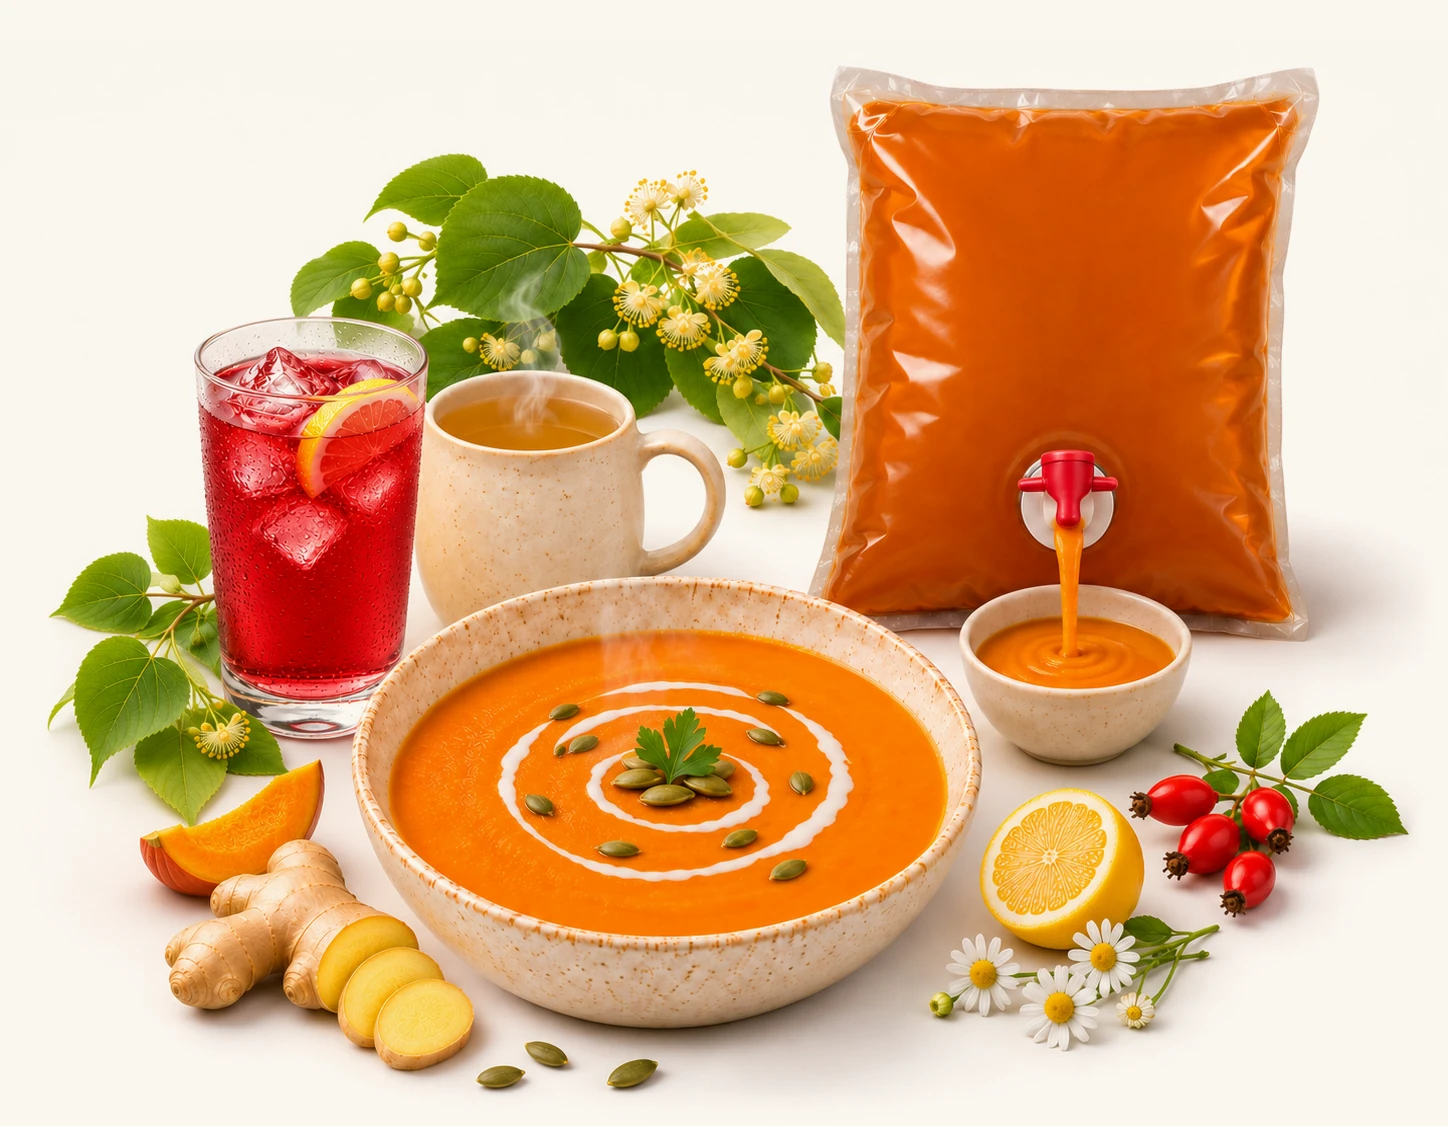
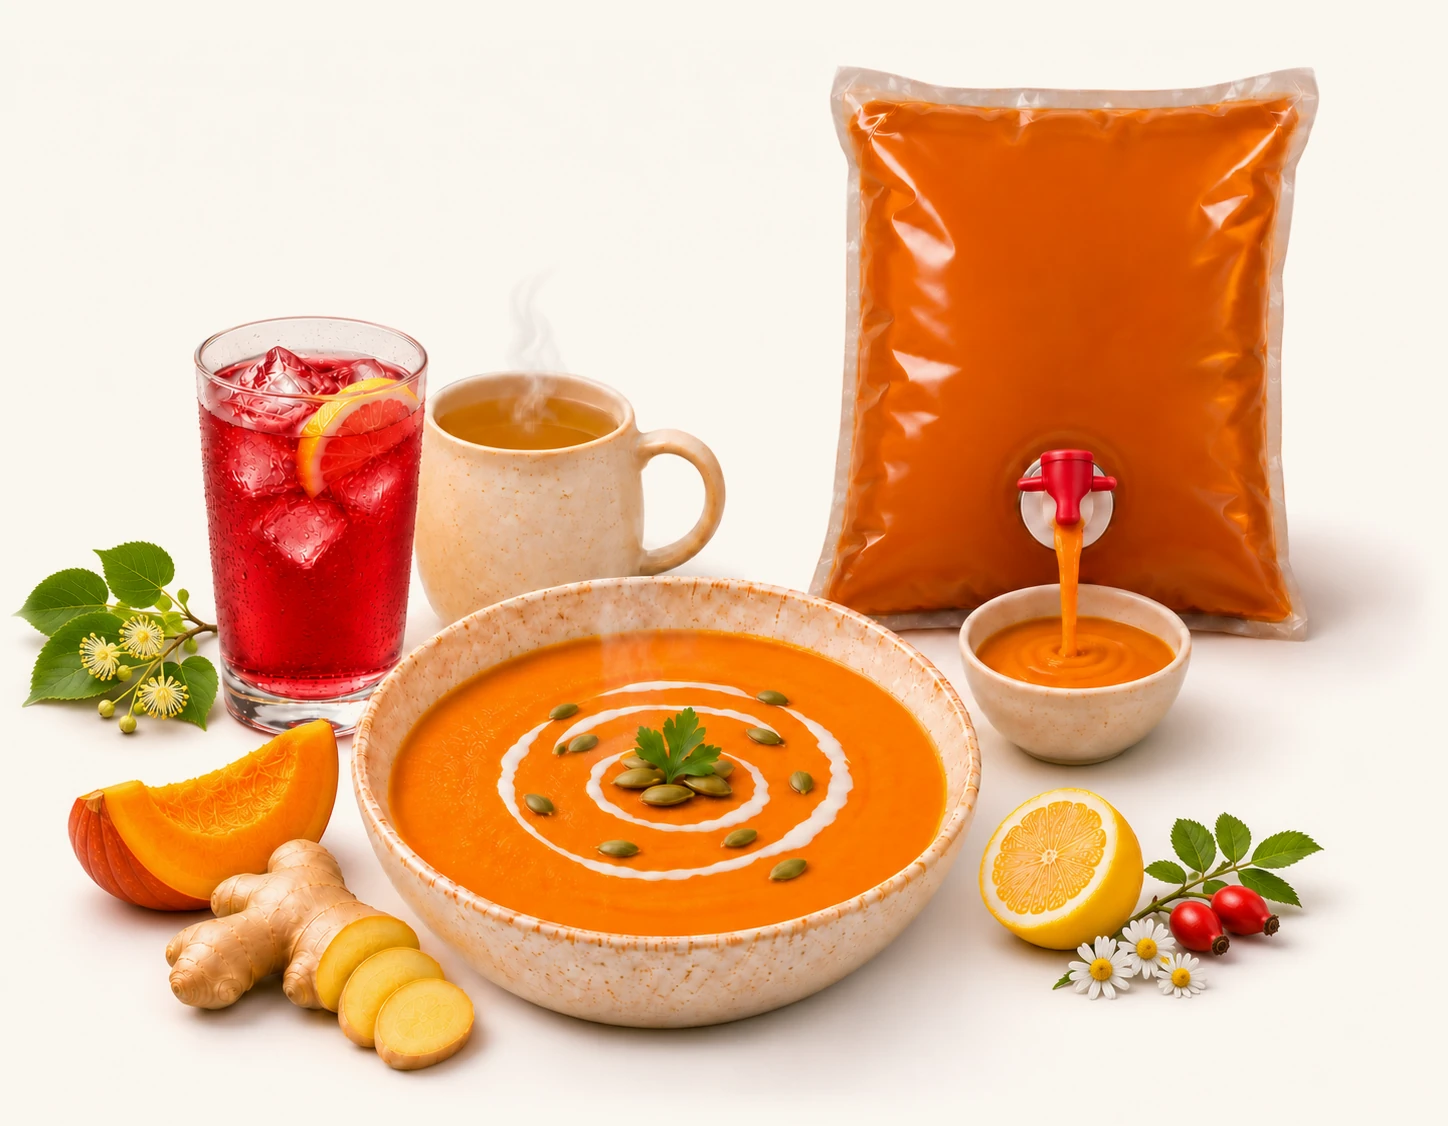
E-shop: nová úvodní stránka (#151)
* E-shop úvod: nový nadpis a texty, Jak funguje begina, Nejoblíbenější, Kdo za tím stojí; úvodní fotka v3; kolotoč s novými ikonami

Claude-Session: https://claude.ai/code/session_016QL8fyP6fDGx2RMwKgd8AU

* E-shop úvod: Nejoblíbenější jen 4 produkty (jedna řada)

Claude-Session: https://claude.ai/code/session_016QL8fyP6fDGx2RMwKgd8AU

---------

diff --git a/dashboard/app/eshop/page.tsx b/dashboard/app/eshop/page.tsx
@@ -5,11 +5,18 @@ import { availableHomeCategories } from "@/lib/eshop/homeNav";
 import type { Metadata } from "next";
 import { SHARE_DESCRIPTION, SHARE_TITLE, brandShareMeta } from "@/lib/eshop/shareMeta";
 import ShopLink from "@/components/eshop/ShopLink";
-import { INFO_PAGES, filteredWater, whyBegina } from "@/lib/eshop/infoPages";
+import Image from "next/image";
+import { Clock, Leaf, Soup } from "lucide-react";
+import { INFO_PAGES } from "@/lib/eshop/infoPages";
+import ProductCard from "@/components/eshop/ProductCard";
+import { HOME_ABOUT, HOME_BESTSELLERS, HOME_BISTRO, HOME_STEPS, HOME_STEPS_PHOTO, HOME_WHY } from "@/lib/eshop/homeContent";
+
+const WHY_ICONS = { leaf: Leaf, soup: Soup, clock: Clock } as const;
 
 // Úvodní stránka: hero podle návrhu z 8. 11. 2026 (fotografie polévky
 // s bylinným nápojem, tlačítka Vybrat polévku / Objevit sirupy), pruh
-// kategorií s ikonami a „Proč Begina“ (texty doslova z begina.cz). Dlaždice kategorií s fotkami odebrány (3. 10. 2026) — úvod
+// kategorií s ikonami; od 11. 11. 2026 pod nimi Proč Begina (3 konkrétní důvody),
+// Jak funguje begina, Nejoblíbenější a Kdo za tím stojí (lib/eshop/homeContent.ts). Dlaždice kategorií s fotkami odebrány (3. 10. 2026) — úvod
 // má zůstat jednoduchý a čistý. Čitelnost (9. 11. 2026): nadpisy 20 px,
 // body a odkazy 16 px, řádkování 1,5.
 export const dynamic = "force-dynamic";
@@ -25,29 +32,75 @@ export const metadata: Metadata = {
 };
 
 export default async function EshopPage() {
-  const { categories } = await getCatalog();
+  const { categories, products } = await getCatalog();
+  const bestsellers = HOME_BESTSELLERS.flatMap((slug) => products.filter((p) => p.slug === slug));
   return (
     <>
       <HomeHero />
       <CategoryIconStrip id={STRIP_ID} categories={availableHomeCategories(categories.map((c) => c.slug))} />
-      <div className="max-w-6xl mx-auto px-4 py-12 sm:py-16">
-        <section className="grid grid-cols-1 sm:grid-cols-2 gap-10 sm:gap-12 text-center">
-          {[
-            { title: "Proč Begina", items: whyBegina, more: { href: INFO_PAGES.about.path, label: "Více o nás" } },
-            { title: "Čistá filtrovaná voda", items: filteredWater, more: { href: INFO_PAGES.water.path, label: "Více o vodě" } },
-          ].map((block) => (
-            <div key={block.title}>
-              <h2 className="font-semibold text-xl leading-snug text-[#2A2622] mb-4">{block.title}</h2>
-              <ul className="flex flex-col gap-2.5 text-base leading-normal text-neutral-800">
-                {block.items.map((item) => (
-                  <li key={item}>✓ {item}</li>
-                ))}
-              </ul>
-              <ShopLink href={block.more.href} className="mt-4 inline-block py-1 text-base font-medium underline underline-offset-4">
-                {block.more.label}
-              </ShopLink>
-            </div>
-          ))}
+      <div className="max-w-6xl mx-auto px-4 py-12 sm:py-16 flex flex-col gap-14 sm:gap-20">
+        {/* Proč Begina – tři konkrétní důvody (11. 11. 2026) */}
+        <section>
+          <h2 className="font-serif text-2xl sm:text-3xl text-center text-[#2A2622] mb-8">Proč Begina</h2>
+          <ul className="grid grid-cols-1 sm:grid-cols-3 gap-4 sm:gap-6">
+            {HOME_WHY.map((item) => {
+              const Icon = WHY_ICONS[item.icon];
+              return (
+                <li key={item.title} className="rounded-2xl bg-[#FAF6EF] border border-[#EDE5D8] p-6 text-center">
+                  <Icon className="w-8 h-8 mx-auto text-[#5E6B34]" aria-hidden="true" />
+                  <h3 className="mt-3 font-semibold text-lg text-[#2A2622]">{item.title}</h3>
+                  <p className="mt-1.5 text-base leading-normal text-neutral-700">{item.text}</p>
+                </li>
+              );
+            })}
+          </ul>
+        </section>
+
+        {/* Jak funguje begina */}
+        <section className="grid grid-cols-1 md:grid-cols-2 gap-8 items-center">
+          <div className="relative aspect-square w-full max-w-md mx-auto">
+            <Image src={HOME_STEPS_PHOTO} alt="Begina s dýňovou polévkou" fill sizes="(min-width: 768px) 28rem, 90vw" className="object-contain" />
+          </div>
+          <div>
+            <h2 className="font-serif text-2xl sm:text-3xl text-[#2A2622] mb-6 text-center md:text-left">Jak funguje begina</h2>
+            <ol className="flex flex-col gap-5">
+              {HOME_STEPS.map((step, i) => (
+                <li key={step.title} className="flex gap-4">
+                  <span className="flex-none w-9 h-9 rounded-full bg-[#A51C1C] text-white font-semibold flex items-center justify-center">{i + 1}</span>
+                  <div>
+                    <h3 className="font-semibold text-lg text-[#2A2622]">{step.title}</h3>
+                    <p className="text-base leading-normal text-neutral-700">{step.text}</p>
+                  </div>
+                </li>
+              ))}
+            </ol>
+            <ShopLink href={INFO_PAGES.packaging.path} className="mt-5 inline-block py-1 text-base font-medium underline underline-offset-4">
+              Více o balení
+            </ShopLink>
+          </div>
+        </section>
+
+        {/* Nejoblíbenější */}
+        {bestsellers.length > 0 && (
+          <section>
+            <h2 className="font-serif text-2xl sm:text-3xl text-center text-[#2A2622] mb-8">Nejoblíbenější</h2>
+            <ul className="grid grid-cols-1 min-[480px]:grid-cols-2 lg:grid-cols-4 gap-4">
+              {bestsellers.map((product) => (
+                <ProductCard key={product.slug} product={product} />
+              ))}
+            </ul>
+          </section>
+        )}
+
+        {/* Kdo za tím stojí */}
+        <section className="max-w-2xl mx-auto text-center">
+          <h2 className="font-serif text-2xl sm:text-3xl text-[#2A2622] mb-4">Kdo za tím stojí</h2>
+          <p className="text-lg leading-relaxed text-neutral-800">{HOME_ABOUT}</p>
+          <p className="mt-3 text-base leading-normal text-neutral-700">{HOME_BISTRO}</p>
+          <div className="mt-4 flex justify-center gap-6">
+            <ShopLink href={INFO_PAGES.about.path} className="py-1 text-base font-medium underline underline-offset-4">Více o nás</ShopLink>
+            <ShopLink href={INFO_PAGES.water.path} className="py-1 text-base font-medium underline underline-offset-4">Více o vodě</ShopLink>
+          </div>
         </section>
       </div>
     </>

diff --git a/dashboard/components/eshop/HomeHero.tsx b/dashboard/components/eshop/HomeHero.tsx
@@ -17,7 +17,7 @@ import ShopLink from "./ShopLink";
 // velikosti pro rychlé načtení připravuje next/image (AVIF/WebP podle sizes).
 
 export const HERO_PHOTO = {
-  src: "/eshop/hero/polevka-begina-caj-limonada-v2.webp",
+  src: "/eshop/hero/polevka-begina-caj-limonada-v3.webp",
   width: 1448,
   height: 1126,
   alt: "Dýňová polévka v misce, ibišková limonáda, hrnek bylinného čaje a třílitrová begina s kohoutkem",
@@ -32,39 +32,34 @@ export default function HomeHero() {
   return (
     <section className="relative overflow-hidden bg-[#FAF6EF] border-b border-[#EDE5D8]">
       <div className="max-w-[76rem] mx-auto lg:px-4 lg:py-[clamp(1.5rem,4vh,3.5rem)] grid items-center lg:grid-cols-[minmax(0,0.72fr)_minmax(0,1.28fr)] lg:gap-6">
-        <div className="relative z-10 px-4 pt-9 pb-6 sm:pt-12 sm:pb-8 lg:p-0 text-center lg:text-left">
+        <div className="relative z-10 px-4 pt-6 pb-5 sm:pt-12 sm:pb-8 lg:p-0 text-center lg:text-left">
           <p className="text-xs sm:text-sm font-semibold uppercase tracking-[0.18em] text-[#5E6B34]">
             Čerstvě. Jednoduše. S&nbsp;chutí.
           </p>
-          {/* Velikost: mobil o 10 % menší než dřív (na výšku i na šířku — telefon
-              na šířku pozná nízká výška okna), tablet na výšku 40 px, tablet na
-              šířku a počítač podle šířky (beze změny).
-              Přesně tři řádky (majitel 9. 11. 2026), žádný se dál neláme; mezery
-              mezi řádky kvůli čtečkám a vyhledávačům („… polévky Bylinné …“). */}
-          <h1 className="mt-4 font-serif text-[1.62rem] leading-[1.15] min-[400px]:text-[1.8rem] sm:text-[2.5rem] sm:[@media(max-height:500px)]:text-[2.25rem] lg:text-[clamp(2.15rem,3.4vw,2.75rem)] tracking-tight text-[#2A2622]">
-            <span className="block whitespace-nowrap">Čerstvé polévky</span>{" "}
-            <span className="block whitespace-nowrap">Bylinné sirupy</span>{" "}
-            <span className="block whitespace-nowrap">Nápoje a&nbsp;zmrzliny</span>
+          {/* Nadpis s hlavní výhodou (11. 11. 2026): begina = natočíte si, kolik chcete. */}
+          <h1 className="mt-3 sm:mt-4 font-serif text-[1.75rem] leading-[1.15] min-[400px]:text-[1.95rem] sm:text-[2.5rem] lg:text-[clamp(2.15rem,3.4vw,2.9rem)] tracking-tight text-[#2A2622]">
+            <span className="block">Polévky a nápoje</span>{" "}
+            <span className="block">v&nbsp;begině</span>
           </h1>
           <p className="mt-4 text-base sm:text-lg text-[#3B3631] leading-relaxed max-w-md mx-auto lg:mx-0 text-balance">
-            Z pečlivě vybraných surovin a&nbsp;čisté filtrované vody.
+            Natočíte si, kolik chcete a&nbsp;kdy chcete. 100&nbsp;% rostlinné, z&nbsp;čisté filtrované vody.
           </p>
-          <div className="mt-7 flex flex-col sm:flex-row items-stretch sm:items-center justify-center lg:justify-start gap-3 max-w-xs sm:max-w-none mx-auto lg:mx-0">
+          <div className="mt-5 sm:mt-7 flex flex-row items-stretch sm:items-center justify-center lg:justify-start gap-2 sm:gap-3 mx-auto lg:mx-0">
             <ShopLink
               href={HERO_LINKS.soups}
-              className="inline-flex items-center justify-center gap-2 rounded-lg bg-[#A51C1C] hover:bg-[#8A1616] focus-visible:outline focus-visible:outline-2 focus-visible:outline-offset-2 focus-visible:outline-[#A51C1C] transition-colors px-7 py-3.5 text-lg font-medium text-white shadow-md shadow-[#A51C1C]/20"
+              className="inline-flex items-center justify-center gap-2 rounded-lg bg-[#A51C1C] hover:bg-[#8A1616] focus-visible:outline focus-visible:outline-2 focus-visible:outline-offset-2 focus-visible:outline-[#A51C1C] transition-colors px-4 sm:px-7 py-3 sm:py-3.5 text-base sm:text-lg font-medium text-white shadow-md shadow-[#A51C1C]/20"
             >
               Vybrat polévku
               <ArrowRight className="w-5 h-5" aria-hidden="true" />
             </ShopLink>
             <ShopLink
               href={HERO_LINKS.syrups}
-              className="inline-flex items-center justify-center rounded-lg border-2 border-[#5E6B34] hover:bg-[#5E6B34]/10 focus-visible:outline focus-visible:outline-2 focus-visible:outline-offset-2 focus-visible:outline-[#5E6B34] transition-colors px-7 py-3 text-lg font-medium text-[#4A5527]"
+              className="inline-flex items-center justify-center rounded-lg border-2 border-[#5E6B34] hover:bg-[#5E6B34]/10 focus-visible:outline focus-visible:outline-2 focus-visible:outline-offset-2 focus-visible:outline-[#5E6B34] transition-colors px-4 sm:px-7 py-2.5 sm:py-3 text-base sm:text-lg font-medium text-[#4A5527]"
             >
               Objevit sirupy
             </ShopLink>
           </div>
-          <p className="mt-6 flex items-center justify-center lg:justify-start gap-2 text-sm sm:text-base text-[#5E6B34]">
+          <p className="mt-4 sm:mt-6 flex items-center justify-center lg:justify-start gap-2 text-sm sm:text-base text-[#5E6B34]">
             <Snowflake className="w-5 h-5" aria-hidden="true" />
             Doručujeme chlazenou přepravou.
           </p>

diff --git a/dashboard/components/__tests__/HomeHero.test.tsx b/dashboard/components/__tests__/HomeHero.test.tsx
@@ -23,11 +23,9 @@ describe("úvod e-shopu", () => {
     const text = (s: string | null) => (s ?? "").replace(/\u00a0/g, " ");
     expect(text(document.body.textContent)).toContain("Čerstvě. Jednoduše. S chutí.");
     const h1 = screen.getByRole("heading", { level: 1 });
-    // přesně tři řádky bez čárek a tečky (9. 11. 2026)
-    expect(Array.from(h1.querySelectorAll("span")).map((s) => text(s.textContent))).toEqual(["Čerstvé polévky", "Bylinné sirupy", "Nápoje a zmrzliny"]);
-    expect(text(h1.textContent)).toBe("Čerstvé polévky Bylinné sirupy Nápoje a zmrzliny");
-    expect(h1.textContent).not.toMatch(/[,.]/);
-    expect(text(document.body.textContent)).toContain("Z pečlivě vybraných surovin a čisté filtrované vody.");
+    // nadpis s hlavní výhodou – begina (11. 11. 2026)
+    expect(text(h1.textContent)).toBe("Polévky a nápoje v begině");
+    expect(text(document.body.textContent)).toContain("Natočíte si, kolik chcete a kdy chcete. 100 % rostlinné, z čisté filtrované vody.");
     expect(screen.getByText("Doručujeme chlazenou přepravou.")).toBeTruthy();
     expect(document.body.textContent).not.toMatch(/poctiv|krabic|bag-in-box/i);
   });
@@ -45,7 +43,7 @@ describe("úvod e-shopu", () => {
   it("fotografie úvodu (polévka, čaj, limonáda, begina, 11. 11. 2026) v plném poměru, existuje v public", () => {
     render(<HomeHero />);
     const img = screen.getByRole("img", { name: HERO_PHOTO.alt });
-    expect(img.getAttribute("src")).toBe("/eshop/hero/polevka-begina-caj-limonada-v2.webp");
+    expect(img.getAttribute("src")).toBe("/eshop/hero/polevka-begina-caj-limonada-v3.webp");
     expect(HERO_PHOTO.width / HERO_PHOTO.height).toBeCloseTo(1448 / 1126);
     expect(img.className).toContain("h-auto");
     expect(img.className).not.toMatch(/object-cover|rounded|shadow|border/);

diff --git a/dashboard/components/eshop/CategoryTile.tsx b/dashboard/components/eshop/CategoryTile.tsx
@@ -22,8 +22,11 @@ export default function CategoryTile({
   sizes: string;
   tabIndex?: number;
 }) {
-  const backdrop = imageBackdrop(category.image);
-  const icon = category.image ? null : HOME_CATEGORIES.find((c) => c.slug === category.slug)?.icon ?? null;
+  // Od 11. 11. 2026 má přednost nová ikona kategorie (stejná jako na úvodu);
+  // staré tmavé fotky kategorií se ukážou jen tam, kde ikona chybí.
+  const icon = HOME_CATEGORIES.find((c) => c.slug === category.slug)?.icon ?? null;
+  const photo = icon ? null : category.image;
+  const backdrop = icon ? "#FAF6EF" : imageBackdrop(photo);
   return (
     <ShopLink
       href={`/kategorie/${category.slug}`}
@@ -35,9 +38,9 @@ export default function CategoryTile({
         className={`relative block aspect-[3/2] overflow-hidden ${backdrop ? "" : "bg-begina-primary-50"}`}
         style={backdrop ? { backgroundColor: backdrop } : undefined}
       >
-        {category.image ? (
+        {photo ? (
           <Image
-            src={category.image}
+            src={photo}
             alt=""
             fill
             sizes={sizes}
@@ -45,7 +48,7 @@ export default function CategoryTile({
             className={`${backdrop ? "object-contain" : "object-cover object-bottom"} transition-transform duration-300 group-hover:scale-105`}
           />
         ) : (
-          // kategorie zatím bez fotky (Zmrzliny): ikona z pruhu na úvodu
+          // ikona kategorie z pruhu na úvodu
           icon && (
             <span className="absolute inset-[10%]">
               <Image src={icon} alt="" fill sizes="200px" draggable={false} className="object-contain transition-transform duration-300 group-hover:scale-105" />

diff --git a/dashboard/lib/eshop/homeContent.ts b/dashboard/lib/eshop/homeContent.ts
@@ -1,0 +1,29 @@
+// Texty úvodní stránky pod pruhem kategorií (návrh schválený majitelem 11. 11. 2026).
+// Konkrétní fakta místo obecných frází; ceny a výdrž podle e-shopu a etiket.
+
+export const HOME_WHY = [
+  { icon: "leaf", title: "100 % rostlinné", text: "Všechny naše produkty jsou bez živočišných surovin." },
+  { icon: "soup", title: "Až 12 porcí v jedné begině", text: "Polévka vyjde na 31,60 Kč za porci, ze sirupu je až 150 nápojů." },
+  { icon: "clock", title: "Vydrží i po otevření", text: "Polévky a čaje 14 dní v lednici – natáčíte postupně." },
+] as const;
+
+export const HOME_STEPS = [
+  { title: "Přijde vám chlazená", text: "Beginu doručíme chlazenou přepravou." },
+  { title: "Uložíte ji do lednice", text: "Zabere málo místa a obsah zůstane čerstvý." },
+  { title: "Natočíte si porci", text: "Beginu vezmete do ruky a natočíte kohoutkem – polévku ohřejete, sirup zředíte." },
+] as const;
+
+/** Nejoblíbenější produkty v pořadí od majitele. */
+export const HOME_BESTSELLERS = [
+  "dynova-polevka",
+  "rajcatova-polevka",
+  "bylinny-sirup-saman",
+  "zazvorovy-sirup",
+] as const;
+
+export const HOME_ABOUT =
+  "Begina vzniká v naší kuchyni. Recepty ladíme tak dlouho, dokud nechutnají tak, jak chceme my sami – z pečlivě vybraných surovin a čisté filtrované vody.";
+
+export const HOME_BISTRO = "Ochutnat nás můžete i v Zahradním bistru Begina ve Viticích (areál Zahradnictví Jandl).";
+
+export const HOME_STEPS_PHOTO = "/eshop/polevky/dynova-polevka-sacek.jpg";

diff --git a/dashboard/lib/eshop/__tests__/homeNav.test.ts b/dashboard/lib/eshop/__tests__/homeNav.test.ts
@@ -67,7 +67,7 @@ describe("úvodní stránka — kategorie z návrhu", () => {
     const pub = path.join(__dirname, "../../../public");
     for (const c of stripCategories(HOME_CATEGORIES)) expect(existsSync(path.join(pub, c.icon)), c.icon).toBe(true);
     // úvod od 8. 11. 2026: jedna skutečná fotografie (bez krabice)
-    for (const f of ["polevka-begina-caj-limonada-v2"]) {
+    for (const f of ["polevka-begina-caj-limonada-v3"]) {
       expect(existsSync(path.join(pub, `eshop/hero/${f}.webp`)), f).toBe(true);
     }
   });

diff --git a/dashboard/lib/site/__tests__/routing.test.ts b/dashboard/lib/site/__tests__/routing.test.ts
@@ -100,7 +100,7 @@ describe("begina.cz — stránky e-shopu bez /eshop", () => {
       "/favicon.ico",
       "/logo-begina-mark.png",
       "/eshop/kulajda.jpg",
-      "/eshop/hero/polevka-begina-caj-limonada-v2.webp",
+      "/eshop/hero/polevka-begina-caj-limonada-v3.webp",
       "/eshop/hero/ikona-polevky-2026-11c.webp",
     ]) {
       expect(get("begina.cz", pathname), pathname).toEqual({ kind: "pass", site: "public" });
